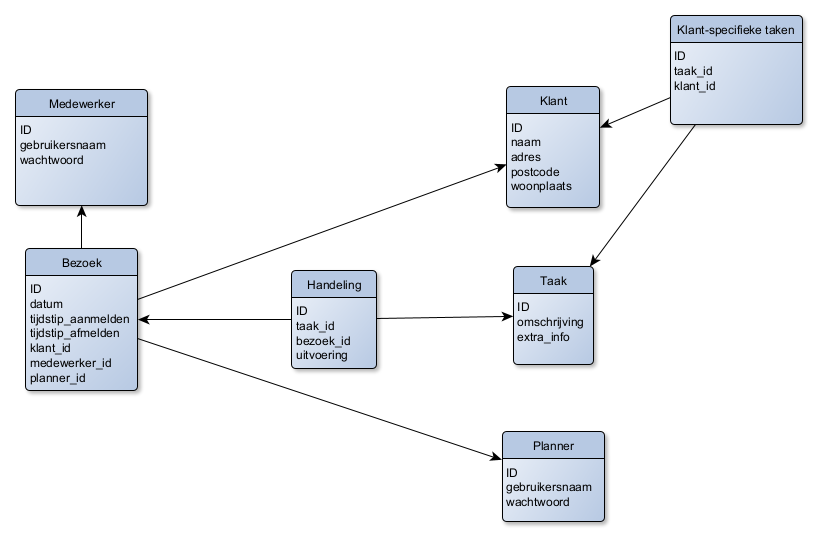
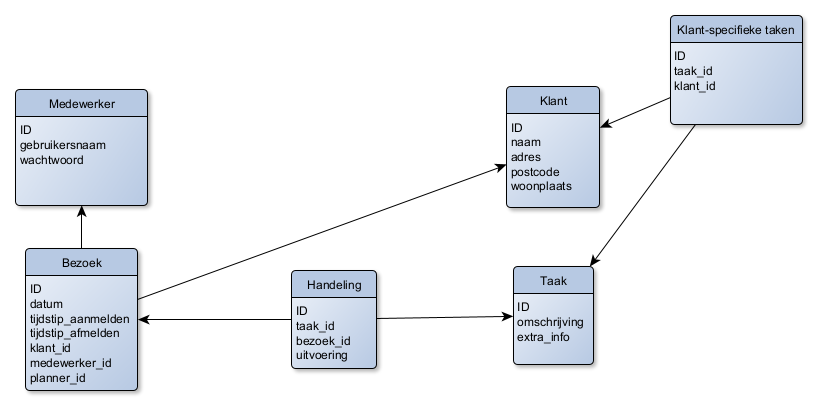
changed README

diff --git a/ZorgAPI/Repositories/UserRepository.cs b/ZorgAPI/Repositories/UserRepository.cs
@@ -1,0 +1,45 @@
+using Org.BouncyCastle.Crypto.Generators;
+using System;
+using System.Collections.Generic;
+using System.Linq;
+using System.Threading.Tasks;
+using ZorgAPI.Data;
+using ZorgAPI.Models;
+
+namespace ZorgAPI.Repositories
+{
+    public class UserRepository : IUserRepository
+    {
+        private readonly ZorgAPIContext _context;
+        public UserRepository(ZorgAPIContext context)
+        {
+            _context = context;
+        }
+        public async Task OpslaanUser(string gebruiker, string wachtwoord)
+        {
+            UserMobile user = new UserMobile
+            {
+                Id = Guid.NewGuid(),
+                Gebruikersnaam = gebruiker,
+                Wachtwoord = BCrypt.Net.BCrypt.HashPassword(wachtwoord)
+            };
+            _context.Users.Add(user);
+            await _context.SaveChangesAsync();
+        }
+
+        public bool CheckUser(Guid? id, UserMobile user, string wachtwoord)
+        {
+            if (user == null || !BCrypt.Net.BCrypt.Verify(wachtwoord, user.Wachtwoord) 
+                             || (user.Id != id && user.Id != null))
+            {
+                return false;
+            }
+            return true;
+        }
+        public UserMobile OphalenUser(string gebruiker)
+        {
+            var user = _context.Users.Find(gebruiker);
+            return user;
+        }
+    }
+}

diff --git a/ZorgAPI/Controllers/UserController.cs b/ZorgAPI/Controllers/UserController.cs
@@ -1,0 +1,42 @@
+using Microsoft.AspNetCore.Authorization;
+using Microsoft.AspNetCore.Http;
+using Microsoft.AspNetCore.Mvc;
+using System;
+using System.Collections.Generic;
+using System.Linq;
+using System.Threading.Tasks;
+using ZorgAPI.Models;
+using ZorgAPI.Repositories;
+using ZorgApp2.Models;
+
+namespace ZorgAPI.Controllers
+{
+    [Route("user/[controller]")]
+    [ApiController]
+    public class UserController : ControllerBase
+    {
+        private readonly IUserRepository ur;
+
+        public UserController(IUserRepository _ur)
+        {
+            ur = _ur;
+        }
+        //Via een JSon object komen de id, gebruikersnaam en wachtwoord van de medewerker binnen.
+        //Deze worden vervolgens opgeslagen in de database bij eerste gebruik.
+        //Bij elke volgende opstart van de app moet token meegestuurd worden.
+        [HttpPost]
+        [Route("auth")]
+        public IActionResult Authenticate(Guid? id, Medewerker mw)
+        {
+            var gebruiker = mw.Gebruikersnaam;
+            var wachtwoord = mw.Wachtwoord;
+            var user = ur.OphalenUser(gebruiker);
+            if (!ur.CheckUser(id, user, wachtwoord))
+            {
+                return BadRequest();
+            }
+            var token = new JsonResult(user);
+            return token;
+        }
+    }
+}

diff --git a/ZorgAPI/Repositories/APIRepository.cs b/ZorgAPI/Repositories/APIRepository.cs
@@ -5,6 +5,9 @@ using System.Threading.Tasks;
 using ZorgAPI.Data;
 using Microsoft.EntityFrameworkCore;
 using ZorgApp2.Models;
+using Microsoft.AspNetCore.Identity;
+using ZorgAPI.Models;
+
 namespace ZorgAPI.Repositories
 {
     public class APIRepository : IAPIRepository
@@ -25,15 +28,6 @@ namespace ZorgAPI.Repositories
             return await _context.Handeling.FindAsync(Id);
         }
 
-        public async Task<Klant> OphalenKlant(int klantId)
-        {
-            return await _context.Klanten.FindAsync(klantId);
-        }
-        public async Task<Taak> OphalenTaak(int taakId)
-        {
-            return await _context.Taak.FindAsync(taakId);
-        }
-
         public async Task<Medewerker> OphalenMedewerker(int Id)
         {
             return await _context.Medewerker.Include(m => m.Bezoeken).ThenInclude(b => b.Handelingen).ThenInclude(h => h.Taak)
@@ -52,5 +46,7 @@ namespace ZorgAPI.Repositories
             _context.Entry(Bezoek).State = EntityState.Modified;
             await _context.SaveChangesAsync();
         }
+
+        
     }
 }

diff --git a/ZorgApp2/Controllers/BezoekController.cs b/ZorgApp2/Controllers/BezoekController.cs
@@ -90,11 +90,11 @@ namespace ZorgApp2.Controllers
                 new Event
                 {
                     Id = i,
-                    Inhoud = bezoeken[i].Klant.Naam.ToString(),
-                    /*KlantNaam = bezoeken[i].Klant.Naam.ToString(),
+                    //Inhoud = bezoeken[i].Klant.Naam.ToString(),
+                    KlantNaam = bezoeken[i].Klant.Naam.ToString(),
                     KlantAdres = bezoeken[i].Klant.Adres.ToString(),
                     KlantPostcode = bezoeken[i].Klant.Postcode.ToString(),
-                    KlantWoonplaats = bezoeken[i].Klant.Woonplaats.ToString(),*/
+                    KlantWoonplaats = bezoeken[i].Klant.Woonplaats.ToString(),
                     StartDatum = bezoeken[i].Datum.ToString()
                 };
             }

diff --git a/ZorgAPI/Data/ZorgAPIContext.cs b/ZorgAPI/Data/ZorgAPIContext.cs
@@ -1,8 +1,10 @@
-using Microsoft.EntityFrameworkCore;
+using Microsoft.AspNetCore.Identity;
+using Microsoft.EntityFrameworkCore;
 using System;
 using System.Collections.Generic;
 using System.Linq;
 using System.Threading.Tasks;
+using ZorgAPI.Models;
 using ZorgApp2.Models;
 namespace ZorgAPI.Data
 {
@@ -15,10 +17,10 @@ namespace ZorgAPI.Data
 
         public DbSet<Klant> Klanten { get; set; }
         public DbSet<Taak> Taak { get; set; }
-        public DbSet<Planner> Planner { get; set; }
         public DbSet<Medewerker> Medewerker { get; set; }
         public DbSet<KSTaak> KSTaak { get; set; }
         public DbSet<Handeling> Handeling { get; set; }
         public DbSet<Bezoek> Bezoek { get; set; }
+        public DbSet<UserMobile> Users { get; set; }
     }
 }

diff --git a/ZorgAPI/Models/UserMobile.cs b/ZorgAPI/Models/UserMobile.cs
@@ -1,15 +1,17 @@
 using System;
 using System.Collections.Generic;
+using System.ComponentModel.DataAnnotations;
 using System.Linq;
 using System.Threading.Tasks;
 
-namespace ZorgApp2.Models
+namespace ZorgAPI.Models
 {
-    public class Planner
+    public class UserMobile
     {
-        public int Id { get; set; }
+        [Key]
+        public Guid Id { get; set; }
         public string Gebruikersnaam { get; set; }
+        [DataType(DataType.Password)]
         public string Wachtwoord { get; set; }
-        public List<Bezoek> Bezoeken { get; set; }
     }
 }

diff --git a/ZorgAPI/Startup.cs b/ZorgAPI/Startup.cs
@@ -29,6 +29,7 @@ namespace ZorgAPI
         {
             services.AddControllers();
             services.AddScoped<IAPIRepository, APIRepository>();
+            services.AddScoped<IUserRepository, UserRepository>();
             services.AddDbContext<ZorgAPIContext>(options => options.UseSqlServer(Configuration["ConnectionStrings:DefaultConnection"]));
             services.AddControllers().AddNewtonsoftJson(options =>
             options.SerializerSettings.ReferenceLoopHandling = Newtonsoft.Json.ReferenceLoopHandling.Ignore

diff --git a/ZorgAPI/Models/Bezoek.cs b/ZorgAPI/Models/Bezoek.cs
@@ -16,10 +16,8 @@ namespace ZorgApp2.Models
         [DataType(DataType.Time)]
         public TimeSpan Tijdstip_afmelden { get; set; }
         public int MedewerkerId { get; set; }
-        public int PlannerId { get; set; }
         public int KlantId { get; set; }
         public Medewerker Medewerker { get; set; }
-        public Planner Planner { get; set; }
         public Klant Klant { get; set; }
         public List<Handeling> Handelingen { get; set; }
 

diff --git a/ZorgAPI/Repositories/IUserRepository.cs b/ZorgAPI/Repositories/IUserRepository.cs
@@ -1,0 +1,15 @@
+using System;
+using System.Collections.Generic;
+using System.Linq;
+using System.Threading.Tasks;
+using ZorgAPI.Models;
+
+namespace ZorgAPI.Repositories
+{
+    public interface IUserRepository
+    {
+        public Task OpslaanUser(string gebruiker, string wachtwoord);
+        public UserMobile OphalenUser(string gebruiker);
+        public bool CheckUser(Guid? id, UserMobile user, string wachtwoord);
+    }
+}

diff --git a/ZorgApp2/Models/Event.cs b/ZorgApp2/Models/Event.cs
@@ -8,7 +8,10 @@ namespace ZorgApp2.Models
     public class Event
     {
         public int Id { get; set; }
-        public string Inhoud { get; set; }
+        public string KlantNaam { get; set; }
+        public string KlantAdres { get; set; }
+        public string KlantPostcode { get; set; }
+        public string KlantWoonplaats { get; set; }
         public string StartDatum { get; set; }
     }
 }

diff --git a/ZorgAPI/Repositories/IAPIRepository.cs b/ZorgAPI/Repositories/IAPIRepository.cs
@@ -11,8 +11,7 @@ namespace ZorgAPI.Repositories
         public Task<Handeling> Get(int Id);
         public Task UpdateHandeling(Handeling Handeling);
         public Task UpdateBezoek(Bezoek Bezoek);
-        public Task<Klant> OphalenKlant(int klantId);
-        public Task<Taak> OphalenTaak(int taakId);
         public Task<Medewerker> OphalenMedewerker(int Id);
+        
     }
 }

diff --git a/ZorgAPI/Controllers/APIController.cs b/ZorgAPI/Controllers/APIController.cs
@@ -8,6 +8,8 @@ using Microsoft.EntityFrameworkCore;
 using ZorgAPI.Data;
 using ZorgApp2.Models;
 using ZorgAPI.Repositories;
+using Microsoft.AspNetCore.Authorization;
+
 namespace ZorgAPI.Controllers
 {
     [Route("api/[controller]")]
